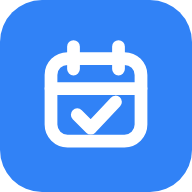
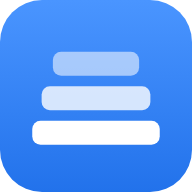
앱 이름을 '차곡'으로 바꾸고 새 아이콘 적용
Claude-Session: https://claude.ai/code/session_01YBAvyA4a7jKa3NeG7Yx8p2

Changed region(s): [[0.1562, 0.1875, 0.8438, 0.7812], [0.1562, 0.0, 0.8438, 0.0312]]

diff --git a/index.html b/index.html
@@ -3,15 +3,15 @@
 <head>
 <meta charset="utf-8">
 <meta name="viewport" content="width=device-width,initial-scale=1,viewport-fit=cover">
-<title>일정 데스크</title>
+<title>차곡</title>
 <meta name="theme-color" content="#f2f4f6">
 <meta name="apple-mobile-web-app-capable" content="yes">
 <meta name="mobile-web-app-capable" content="yes">
-<meta name="apple-mobile-web-app-title" content="일정 데스크">
+<meta name="apple-mobile-web-app-title" content="차곡">
 <script>try { document.documentElement.dataset.mode = localStorage.getItem("schedule-desk.theme.v1") || "light"; document.documentElement.dataset.palette = localStorage.getItem("schedule-desk.palette.v1") || "basic"; } catch (e) { document.documentElement.dataset.mode = "light"; document.documentElement.dataset.palette = "basic"; }</script>
 <link rel="manifest" href="manifest.webmanifest">
 <link rel="icon" href="icon-192.png">
-<link rel="apple-touch-icon" href="icon-192.png">
+<link rel="apple-touch-icon" href="apple-touch-icon.png">
 <link rel="preconnect" href="https://fonts.googleapis.com">
 <link rel="preconnect" href="https://fonts.gstatic.com" crossorigin>
 <link rel="stylesheet" href="https://fonts.googleapis.com/css2?family=Noto+Sans+KR:wght@400;500;700;800&display=swap">
@@ -838,7 +838,7 @@ input[type="date"]::-webkit-date-and-time-value, input[type="time"]::-webkit-dat
 <!-- Sign-in screen -->
 <section class="authview" id="authview" hidden aria-label="로그인">
   <form class="authbox" id="f-auth" novalidate>
-    <div><h1>일정 데스크</h1><p class="muted" style="margin:6px 0 0">로그인하면 컴퓨터와 휴대폰에서 같은 내용을 볼 수 있어요.</p></div>
+    <div><h1>차곡</h1><p class="muted" style="margin:6px 0 0">하루를 차곡차곡 쌓아 가는 나만의 비서예요. 로그인하면 컴퓨터와 휴대폰에서 같은 내용을 볼 수 있어요.</p></div>
     <button class="btn big gbtn" type="button" id="au-google"><svg viewBox="0 0 48 48" aria-hidden="true"><path fill="#FFC107" d="M43.6 20.5H42V20H24v8h11.3C33.7 32.7 29.2 36 24 36c-6.6 0-12-5.4-12-12s5.4-12 12-12c3.1 0 5.8 1.2 7.9 3.1l5.7-5.7C34 6.1 29.3 4 24 4 12.9 4 4 12.9 4 24s8.9 20 20 20 20-8.9 20-20c0-1.3-.1-2.4-.4-3.5z"/><path fill="#FF3D00" d="m6.3 14.7 6.6 4.8C14.7 15.1 19 12 24 12c3.1 0 5.8 1.2 7.9 3.1l5.7-5.7C34 6.1 29.3 4 24 4 16.3 4 9.7 8.3 6.3 14.7z"/><path fill="#4CAF50" d="M24 44c5.2 0 9.9-2 13.4-5.2l-6.2-5.2C29.2 35.1 26.7 36 24 36c-5.2 0-9.6-3.3-11.3-7.9l-6.5 5C9.5 39.6 16.2 44 24 44z"/><path fill="#1976D2" d="M43.6 20.5H42V20H24v8h11.3c-.8 2.2-2.2 4.2-4.1 5.6l6.2 5.2C37 39.2 44 34 44 24c0-1.3-.1-2.4-.4-3.5z"/></svg>구글로 계속하기</button>
     <div class="ordiv">또는 이메일로</div>
     <div class="field"><label for="au-email">이메일</label><input id="au-email" type="email" class="input" autocomplete="username" inputmode="email"></div>
@@ -2771,7 +2771,7 @@ action 형식:
     } catch (e) {
       const c = e && e.code;
       if (c === "auth/popup-closed-by-user" || c === "auth/cancelled-popup-request") {}
-      else if (c === "auth/credential-already-in-use" || c === "auth/email-already-in-use") note("st-acc-msg", "이 구글 계정은 이미 다른 일정 데스크 계정에서 쓰고 있어요. 다른 구글 계정을 골라 주세요.", "err");
+      else if (c === "auth/credential-already-in-use" || c === "auth/email-already-in-use") note("st-acc-msg", "이 구글 계정은 이미 다른 차곡 계정에서 쓰고 있어요. 다른 구글 계정을 골라 주세요.", "err");
       else if (c === "auth/provider-already-linked") note("st-acc-msg", "이미 구글 계정이 연결되어 있어요.", "ok");
       else if (c === "auth/requires-recent-login") note("st-acc-msg", "보안을 위해 로그아웃 후 다시 로그인한 다음 연결해 주세요.", "err");
       else if (c === "auth/operation-not-allowed") note("st-acc-msg", "Firebase 콘솔 Authentication → 로그인 방법에서 Google을 켜야 해요.", "err");
@@ -2789,7 +2789,7 @@ action 형식:
   $("bk-export").addEventListener("click", () => {
     const data = { app: "schedule-desk", version: 1, exportedAt: new Date().toISOString(), budget, hours, collections: Object.fromEntries(COLLS.map(c => [c, S[c]])) };
     const url = URL.createObjectURL(new Blob([JSON.stringify(data, null, 1)], { type: "application/json" }));
-    const a = document.createElement("a"); a.href = url; a.download = `schedule-desk-backup-${todayStr()}.json`;
+    const a = document.createElement("a"); a.href = url; a.download = `차곡-백업-${todayStr()}.json`;
     document.body.appendChild(a); a.click(); a.remove(); setTimeout(() => URL.revokeObjectURL(url), 5000);
     note("bk-msg", "백업 파일을 내려받았어요.", "ok");
   });
@@ -2798,9 +2798,9 @@ action 형식:
     const f = e.target.files && e.target.files[0]; if (!f) return;
     pendingImport = null; $("bk-confirm").hidden = true;
     let data;
-    try { data = JSON.parse(await f.text()); } catch (err) { note("bk-msg", "파일을 읽지 못했어요. 일정 데스크 백업 파일(.json)인지 확인해 주세요.", "err"); return; }
+    try { data = JSON.parse(await f.text()); } catch (err) { note("bk-msg", "파일을 읽지 못했어요. 차곡 백업 파일(.json)인지 확인해 주세요.", "err"); return; }
     const colls = data && data.collections;
-    if (!colls || typeof colls !== "object") { note("bk-msg", "일정 데스크 백업 파일이 아니에요.", "err"); return; }
+    if (!colls || typeof colls !== "object") { note("bk-msg", "차곡 백업 파일이 아니에요.", "err"); return; }
     const items = {}; let n = 0;
     for (const c of COLLS) {
       items[c] = (Array.isArray(colls[c]) ? colls[c] : []).filter(x => x && typeof x === "object" && typeof x.id === "string" && x.id && !x.id.includes("/")).slice(0, 5000);

diff --git a/sw.js b/sw.js
@@ -1,6 +1,6 @@
 // 오프라인에서도 앱이 열리도록 파일을 저장해 둡니다. 온라인일 때는 항상 최신 파일을 먼저 받습니다.
-const CACHE = "schedule-desk-v13";
-const SHELL = ["./", "index.html", "firebase-config.js", "manifest.webmanifest", "icon-192.png", "icon-512.png",
+const CACHE = "schedule-desk-v14";
+const SHELL = ["./", "index.html", "firebase-config.js", "manifest.webmanifest", "icon-192.png", "icon-512.png", "apple-touch-icon.png",
   "vendor/firebase-app-compat.js", "vendor/firebase-auth-compat.js", "vendor/firebase-firestore-compat.js"];
 self.addEventListener("install", e => { e.waitUntil(caches.open(CACHE).then(c => c.addAll(SHELL)).then(() => self.skipWaiting())); });
 self.addEventListener("activate", e => {

diff --git a/설치안내.md b/설치안내.md
@@ -1,6 +1,6 @@
-# 일정 데스크 설치 안내
+# 차곡 설치 안내
 
-일정 데스크는 파일 몇 개로 된 웹앱입니다. 데이터는 Firebase(구글의 무료 클라우드)에 저장되고, 이메일과 비밀번호로 로그인하면 컴퓨터와 휴대폰에서 같은 내용이 보입니다.
+차곡은 파일 몇 개로 된 웹앱입니다. 데이터는 Firebase(구글의 무료 클라우드)에 저장되고, 이메일과 비밀번호로 로그인하면 컴퓨터와 휴대폰에서 같은 내용이 보입니다.
 
 ## 1. Firebase 프로젝트 만들기 (처음 한 번, 10~15분)
 
